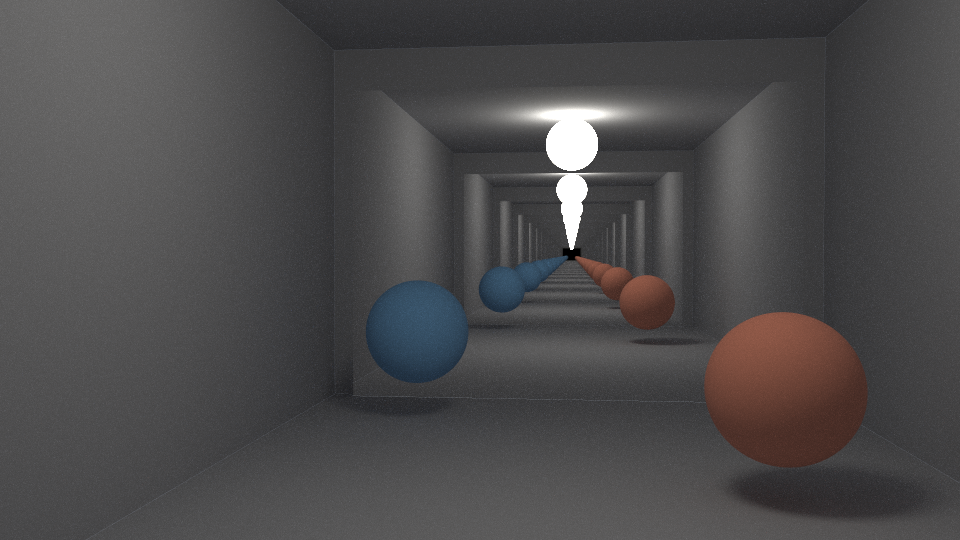
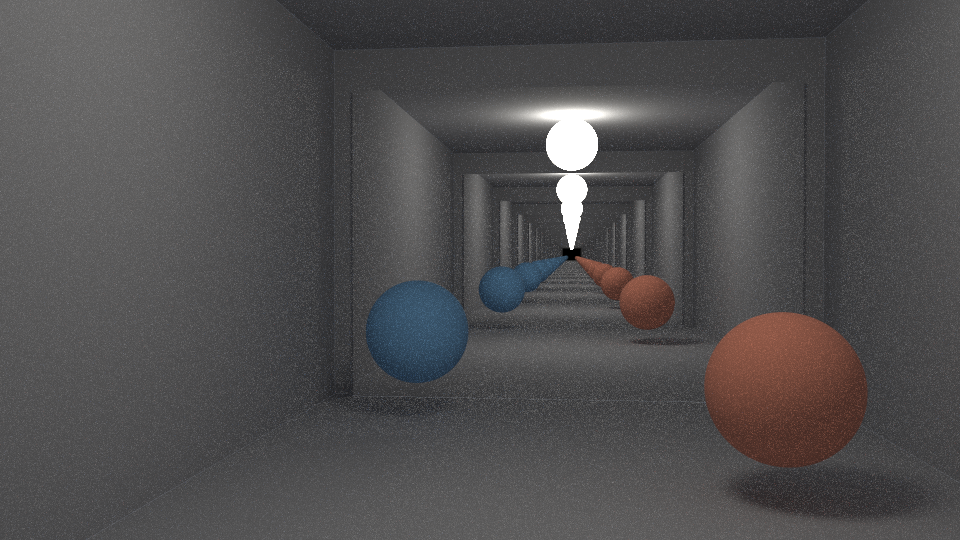
Portals: fix two estimator bugs found by post-hoc brute-force audit
The portal session shipped without its brute-force bias gate — the one
referee every other transport session ran. Running it found -3.42% vs
brute on the corridor (NEE+MIS lost energy). Two coupled bugs:

1. MIS after a teleport: the jump kept prev_nee/prev_nee_light from the
   last scatter vertex, so an emitter seen THROUGH a portal — a different
   image of the light that NEE's straight-line sampler cannot reach — was
   MIS down-weighted by pdf_b^2/(pdf_b^2+pdf_light^2), nearly zeroing
   every recursion level of the corridor lamp. Fix: the delta-chain rule —
   a teleport resets both NEE flags, so through-portal emitter/env hits
   keep full weight.

2. NEE light leak through portal rectangles: shadow rays ignored portals,
   counting straight-line light that would physically have teleported
   away. Fix: portals are opaque to shadow rays (either side, via
   portal_blocks in sample_direct + sample_medium, both backends);
   through-portal illumination arrives solely via BSDF/phase rays at full
   weight — a consistent partition, no path double-counted or impossible.

Gates: corridor bias -3.42% -> -0.11% vs brute; no-portal --parity
byte-identical (0.0212); portal-scene --parity 0.0006 LSB PASS (the new
occlusion + flag resets hand-matched CPU/MSL); NaN 0; spectral/fog parity
re-certified. docs/portals.png re-rendered with the corrected estimator
(brighter — the restored energy).

Found in a full v1.0..HEAD review; the branch was unpushed, so the bug
never shipped.
[…]

Changed region(s): [[0.375, 0.7407, 0.4688, 0.7704]]

diff --git a/src/integrator.h b/src/integrator.h
@@ -289,6 +289,59 @@ inline color clamp_contribution(const color& c, float m) {
 // original order (bit-preserving for the monolithic caller); consumes
 // the same rng draws under the same conditions. The can_nee_* outputs
 // feed the caller's MIS bookkeeping for its continuation ray.
+// v1.3 portal ray-rectangle intersection (front face only) + the rigid
+// transform to the partner. Mirrored in pathtrace.metal.
+inline bool hit_portal(const GPUPortal& P, const Ray& r, float t_min,
+                       float t_max, float& t_out) {
+    const vec3 n(P.normal.x, P.normal.y, P.normal.z);
+    const float denom = dot(n, r.dir);
+    if (denom >= -1e-9f) return false;   // parallel or hitting the back
+    const vec3 c(P.center.x, P.center.y, P.center.z);
+    const float t = dot(n, c - r.origin) / denom;
+    if (t < t_min || t > t_max) return false;
+    const vec3 d = (r.origin + t * r.dir) - c;
+    const vec3 u(P.u.x, P.u.y, P.u.z), vv(P.v.x, P.v.y, P.v.z);
+    const float a = dot(d, u) / dot(u, u);
+    const float b = dot(d, vv) / dot(vv, vv);
+    if (a < -1.0f || a > 1.0f || b < -1.0f || b > 1.0f) return false;
+    t_out = t;
+    return true;
+}
+inline point3 portal_xf_point(const GPUPortal& P, const point3& p) {
+    const vec3 r0(P.r0.x, P.r0.y, P.r0.z), r1(P.r1.x, P.r1.y, P.r1.z),
+        r2(P.r2.x, P.r2.y, P.r2.z);
+    return point3(dot(r0, p) + P.tx, dot(r1, p) + P.ty, dot(r2, p) + P.tz);
+}
+inline vec3 portal_xf_dir(const GPUPortal& P, const vec3& d) {
+    const vec3 r0(P.r0.x, P.r0.y, P.r0.z), r1(P.r1.x, P.r1.y, P.r1.z),
+        r2(P.r2.x, P.r2.y, P.r2.z);
+    return vec3(dot(r0, d), dot(r1, d), dot(r2, d));
+}
+
+// Portals are OPAQUE to shadow rays (either side): a straight lamp->surface
+// line crossing a portal rectangle would have teleported, so counting it is
+// a light leak. Through-portal lighting arrives via BSDF/phase rays at full
+// MIS weight instead (the teleport resets the NEE flags). Mirrored in MSL.
+inline bool portal_blocks(const GPUPortal* portals, int count, const Ray& r,
+                          float t_min, float t_max) {
+    for (int i = 0; i < count; ++i) {
+        const GPUPortal& P = portals[i];
+        const vec3 nrm(P.normal.x, P.normal.y, P.normal.z);
+        const float denom = dot(nrm, r.dir);
+        if (std::fabs(denom) < 1e-9f) continue;
+        const vec3 c(P.center.x, P.center.y, P.center.z);
+        const float t = dot(nrm, c - r.origin) / denom;
+        if (t < t_min || t > t_max) continue;
+        const vec3 d = (r.origin + t * r.dir) - c;
+        const vec3 u(P.u.x, P.u.y, P.u.z), vv(P.v.x, P.v.y, P.v.z);
+        const float a = dot(d, u) / dot(u, u);
+        const float b = dot(d, vv) / dot(vv, vv);
+        if (a < -1.0f || a > 1.0f || b < -1.0f || b > 1.0f) continue;
+        return true;
+    }
+    return false;
+}
+
 // v1.3 homogeneous-medium transmittance along a ray of the given length
 // (Beer-Lambert). sigma == 0 -> 1 (vacuum). dist may be +inf (env light in
 // global fog -> 0), so the sigma > 0 guard also avoids 0*inf = NaN.
@@ -336,7 +389,9 @@ inline void sample_medium(const point3& p, const vec3& d,
                           const EnvLookup& env, const LightsLookup& lights,
                           float g, float fog_sigma, float clamp_indirect,
                           const color& throughput, color& radiance,
-                          bool& can_nee_out, bool& can_nee_light_out) {
+                          bool& can_nee_out, bool& can_nee_light_out,
+                          const GPUPortal* portals = nullptr,
+                          int portal_count = 0) {
     // --- env in-scattering (extinguished in global fog; kept for the same
     // draw pattern as sample_direct and for bounded fog later) ---
     const bool can_nee = env.nee && env.row_cdf != nullptr;
@@ -349,7 +404,9 @@ inline void sample_medium(const point3& p, const vec3& d,
             const float ph = hg_phase(dot(d, ldir), g);
             const Ray shadow(p, ldir);
             if (!world.occluded(shadow, 1e-3f,
-                                std::numeric_limits<float>::infinity())) {
+                                std::numeric_limits<float>::infinity()) &&
+                !portal_blocks(portals, portal_count, shadow, 1e-3f,
+                               std::numeric_limits<float>::infinity())) {
                 const float w = (pdf_env * pdf_env) /
                                 (pdf_env * pdf_env + ph * ph + 1e-20f);
                 const color c = throughput * ph * miss_radiance(env, shadow) *
@@ -379,7 +436,9 @@ inline void sample_medium(const point3& p, const vec3& d,
         if (pdf_sa > 1e-12f && L.sel_pdf > 0.0f) {
             const float ph = hg_phase(dot(d, ldir), g);
             const Ray shadow(p, ldir);
-            if (!world.occluded(shadow, 1e-3f, t_light * (1.0f - 1e-3f))) {
+            if (!world.occluded(shadow, 1e-3f, t_light * (1.0f - 1e-3f)) &&
+                !portal_blocks(portals, portal_count, shadow, 1e-3f,
+                               t_light * (1.0f - 1e-3f))) {
                 color Le(L.emission.x, L.emission.y, L.emission.z);
                 if (L.kind == 1u) {
                     const float b0 = 1.0f - bu - bv;
@@ -410,7 +469,9 @@ inline void sample_direct(const HitRecord& rec, const Ray& ray,
                           const SpecCtx& sc = SpecCtx{false, 0.0f,
                                                       color(1.0f, 1.0f,
                                                             1.0f)},
-                          float fog_sigma = 0.0f) {
+                          float fog_sigma = 0.0f,
+                          const GPUPortal* portals = nullptr,
+                          int portal_count = 0) {
         // ---- Session H: next-event estimation toward the environment.
         // Deliberately sample the env distribution (the sun), evaluate the
         // BSDF for that direction, and add the contribution if the shadow
@@ -435,6 +496,9 @@ inline void sample_direct(const HitRecord& rec, const Ray& ray,
                     const Ray shadow(rec.p, ldir);
                     if (!world.occluded(
                             shadow, 1e-3f,
+                            std::numeric_limits<float>::infinity()) &&
+                        !portal_blocks(
+                            portals, portal_count, shadow, 1e-3f,
                             std::numeric_limits<float>::infinity())) {
                         // MIS weight vs the BSDF sampler (power heuristic).
                         const float w =
@@ -483,7 +547,9 @@ inline void sample_direct(const HitRecord& rec, const Ray& ray,
                 if (nl > 1e-6f && (f.x > 0.0f || f.y > 0.0f || f.z > 0.0f)) {
                     const Ray shadow(rec.p, ldir);
                     if (!world.occluded(shadow, 1e-3f,
-                                        t_light * (1.0f - 1e-3f))) {
+                                        t_light * (1.0f - 1e-3f)) &&
+                        !portal_blocks(portals, portal_count, shadow, 1e-3f,
+                                       t_light * (1.0f - 1e-3f))) {
                         color Le(L.emission.x, L.emission.y, L.emission.z);
                         if (L.kind == 1u) {
                             // Textured Le at the sampled point (same
@@ -1144,35 +1210,6 @@ inline void restir_spatial_shade(
     persist.prev_t = rec.t;
 }
 
-// v1.3 portal ray-rectangle intersection (front face only) + the rigid
-// transform to the partner. Mirrored in pathtrace.metal.
-inline bool hit_portal(const GPUPortal& P, const Ray& r, float t_min,
-                       float t_max, float& t_out) {
-    const vec3 n(P.normal.x, P.normal.y, P.normal.z);
-    const float denom = dot(n, r.dir);
-    if (denom >= -1e-9f) return false;   // parallel or hitting the back
-    const vec3 c(P.center.x, P.center.y, P.center.z);
-    const float t = dot(n, c - r.origin) / denom;
-    if (t < t_min || t > t_max) return false;
-    const vec3 d = (r.origin + t * r.dir) - c;
-    const vec3 u(P.u.x, P.u.y, P.u.z), vv(P.v.x, P.v.y, P.v.z);
-    const float a = dot(d, u) / dot(u, u);
-    const float b = dot(d, vv) / dot(vv, vv);
-    if (a < -1.0f || a > 1.0f || b < -1.0f || b > 1.0f) return false;
-    t_out = t;
-    return true;
-}
-inline point3 portal_xf_point(const GPUPortal& P, const point3& p) {
-    const vec3 r0(P.r0.x, P.r0.y, P.r0.z), r1(P.r1.x, P.r1.y, P.r1.z),
-        r2(P.r2.x, P.r2.y, P.r2.z);
-    return point3(dot(r0, p) + P.tx, dot(r1, p) + P.ty, dot(r2, p) + P.tz);
-}
-inline vec3 portal_xf_dir(const GPUPortal& P, const vec3& d) {
-    const vec3 r0(P.r0.x, P.r0.y, P.r0.z), r1(P.r1.x, P.r1.y, P.r1.z),
-        r2(P.r2.x, P.r2.y, P.r2.z);
-    return vec3(dot(r0, d), dot(r1, d), dot(r2, d));
-}
-
 inline color trace(Ray ray, const Hittable& world, RNG& rng, int max_depth,
                    const EnvLookup& env, const LightsLookup& lights,
                    float clamp_indirect,
@@ -1240,7 +1277,7 @@ inline color trace(Ray ray, const Hittable& world, RNG& rng, int max_depth,
                 bool v_nee = false, v_nee_light = false;
                 sample_medium(pmed, dir, world, rng, env, lights, fog_g,
                               fog_sigma, clamp_indirect, throughput, radiance,
-                              v_nee, v_nee_light);
+                              v_nee, v_nee_light, portals, portal_count);
                 float phase_pdf = 0.0f;
                 const vec3 d2 = hg_sample(dir, fog_g, rng.next_float(),
                                           rng.next_float(), phase_pdf);
@@ -1271,6 +1308,14 @@ inline color trace(Ray ray, const Hittable& world, RNG& rng, int max_depth,
             const point3 hp2 = portal_xf_point(portals[phit], hp);
             const vec3 d2 = normalize(portal_xf_dir(portals[phit], ray.dir));
             ray = Ray(hp2 + 1e-3f * d2, d2);   // offset off the seam
+            // A teleported ray sees a DIFFERENT image of the scene than
+            // the straight lines NEE sampled at the last vertex, so
+            // emitter/env hits after a jump keep FULL weight — the delta-
+            // chain rule. Without this, every through-portal lamp image is
+            // MIS down-weighted against a sampler that cannot reach it
+            // (measured: -3.4% vs brute on the corridor).
+            prev_nee = false;
+            prev_nee_light = false;
             continue;
         }
 
@@ -1326,7 +1371,7 @@ inline color trace(Ray ray, const Hittable& world, RNG& rng, int max_depth,
             bool v_nee = false, v_nee_light = false;
             sample_direct(rec, ray, world, rng, env, lights, clamp_indirect,
                           throughput, radiance, v_nee, v_nee_light, sc,
-                          fog_sigma);
+                          fog_sigma, portals, portal_count);
             prev_nee = v_nee;
             prev_nee_light = v_nee_light;
         }